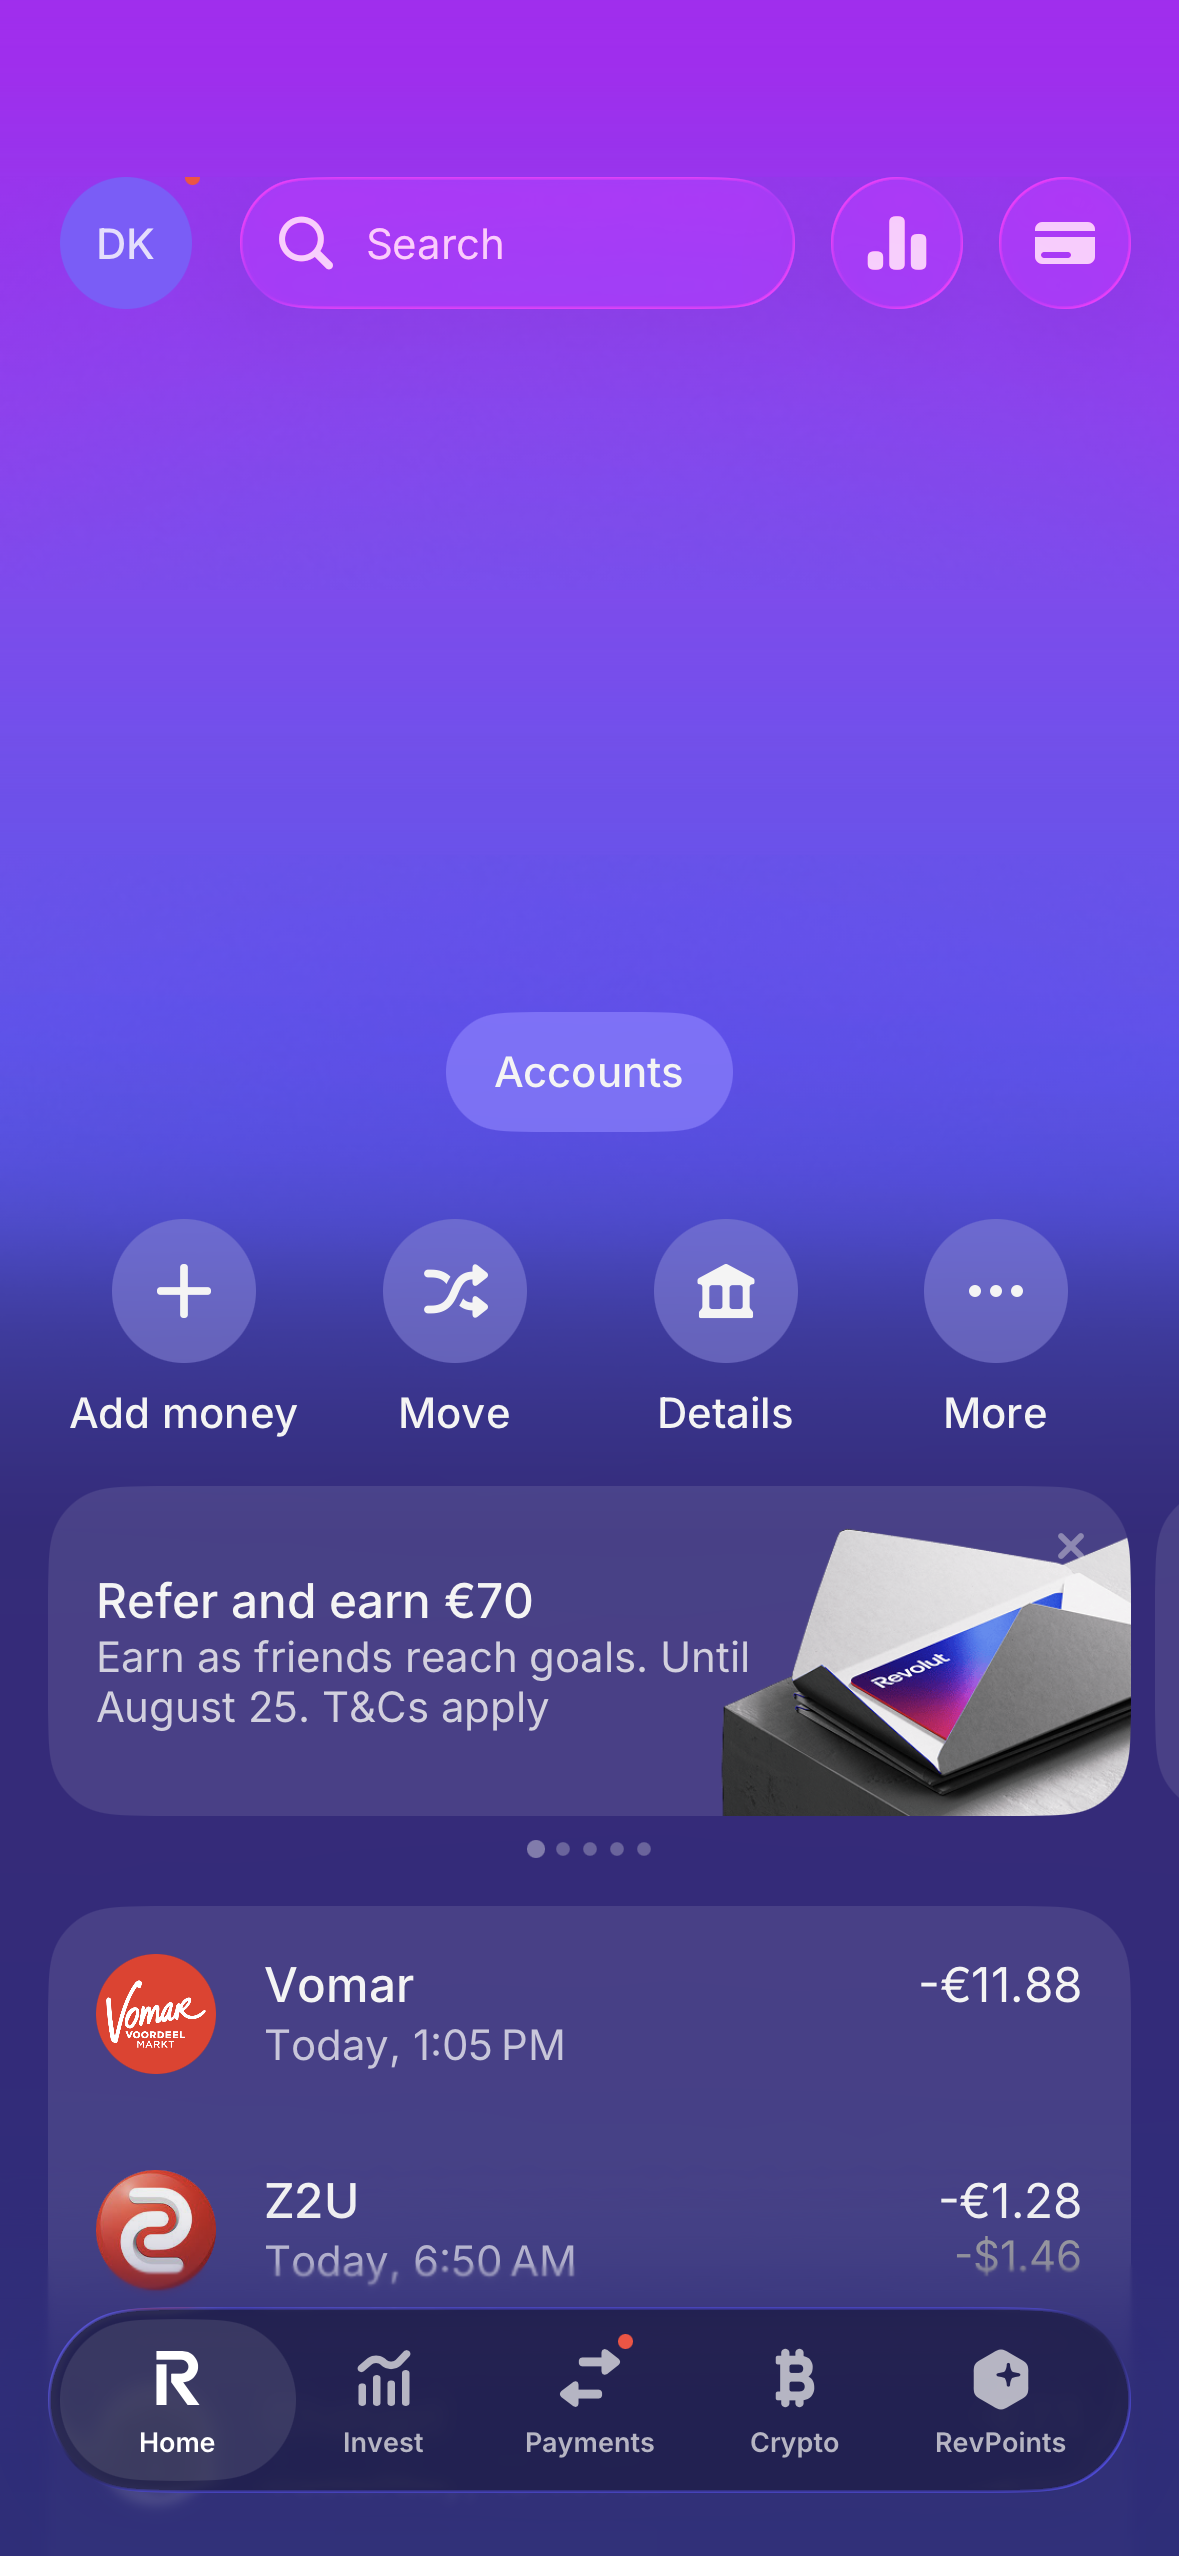
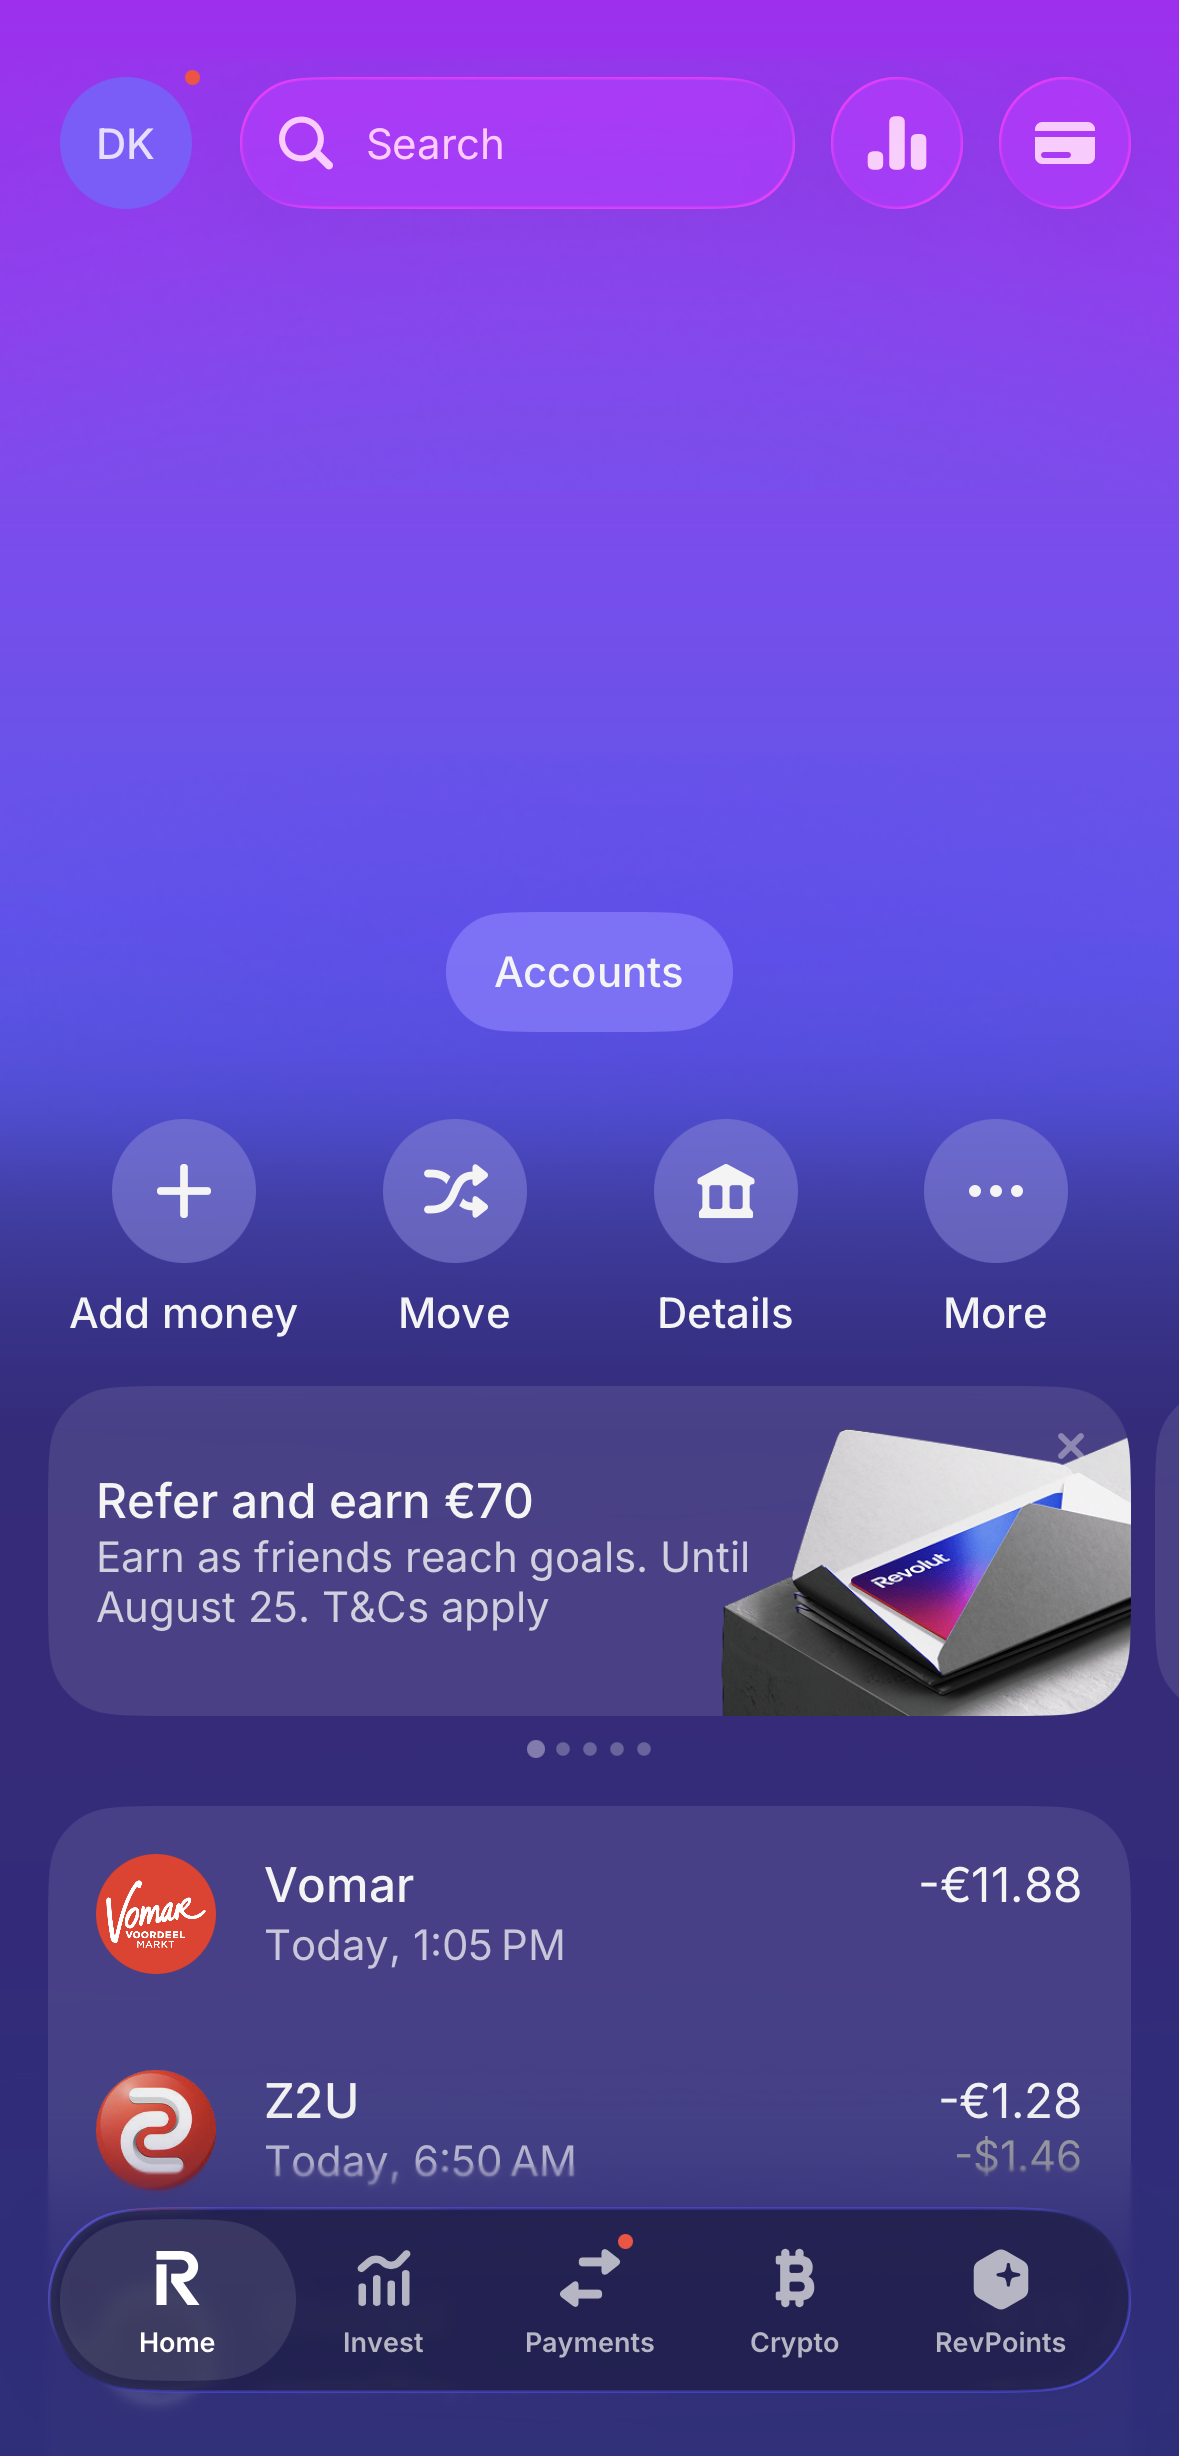
Fix cropped red dot + image too high: crop blank top, restore content
Root causes:
1. Red dot was erased when we painted over y=0-176 (it was at y=170-184)
   Fixed: only erase y=0-159, keeping red dot at y=160+
2. Image had 177px of blank gradient at top (erased status bar) wasting
   vertical space — on shorter viewports this pushed content behind the
   status bar and the tab bar too high

Fix: cropped 100px of blank gradient from the top of bg.png, making the
image 1179x2456 (819pt). Restored original content from y=160+ including
the red notification dot. Updated overlay positions for new image height.

diff --git a/index.html b/index.html
@@ -26,7 +26,7 @@ html,body{width:100%;height:100%;overflow:hidden;background:#31317a}
 
 .label-text{
   position:fixed;
-  top:23.4%;
+  top:20.2%;
   left:0;width:100%;
   z-index:10;
   pointer-events:none;
@@ -39,7 +39,7 @@ html,body{width:100%;height:100%;overflow:hidden;background:#31317a}
 }
 .balance-text{
   position:fixed;
-  top:26.3%;
+  top:23.3%;
   left:0;width:100%;
   z-index:10;
   font-family:-apple-system,BlinkMacSystemFont,'SF Pro Display',sans-serif;
@@ -62,7 +62,7 @@ html,body{width:100%;height:100%;overflow:hidden;background:#31317a}
 }
 .iban-text{
   position:fixed;
-  top:31.8%;
+  top:28.9%;
   left:0;width:100%;
   z-index:10;
   pointer-events:none;
